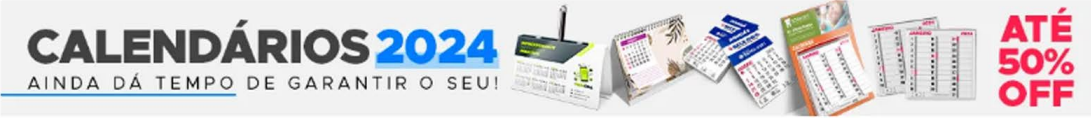
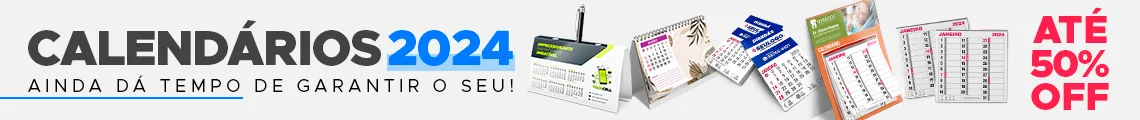
realizando algumas modificações solicitações cliente

diff --git a/index.html b/index.html
@@ -36,7 +36,7 @@
             <p class="header-text-pedido">Confira os impressos com entrega rápida!</p>
             <a href="#" class="header-link-confira">confira aqui ></a>
         </div>
-        <div class="header-info">
+        <div class="header-info container">
             <p class="header-text-grafica">Tudo é gráfica, tudo é GIV Online.</p>
 
             <ul class="header-menu-info">
@@ -50,7 +50,7 @@
                 <li><a href="#"><i class="fa-brands fa-instagram" title="instagram"></i></a></li>
             </ul>
         </div>
-        <div class="header-pesquisa">
+        <div class="header-pesquisa container">
             <div class="header-logo">
                 <a href="#"><img src="img/logo.png" alt="logo"></a>
             </div>
@@ -76,10 +76,10 @@
                 <span class="header-icones"><i class="fa-solid fa-cart-shopping"></i></span>
             </div>
         </div>
-        <div class="header-menu">
-            <hr>
+        <div class="header-menu" id="menu-fixo">
+            <hr id="hr-menu-fixo">
             <nav>
-                <ul>
+                <ul class="menu-fixo-ul">
                     <li>
                         <i class="fa-solid fa-bars"></i>
                         Todos os produtos
@@ -156,7 +156,7 @@
         </div>
     </header>
 
-    <section class="section-carousel">
+    <section class="section-carouse">
         <div id="carouselExampleAutoplaying" class="carousel slide" data-bs-ride="carousel">
             <div class="carousel-indicators">
                 <button type="button" data-bs-target="#carouselExampleIndicators" data-bs-slide-to="0" class="active" aria-current="true" aria-label="Slide 1"></button>
@@ -185,7 +185,7 @@
           </div>
     </section>
 
-    <section class="banner-produtos-categorias">
+    <section class="banner-produtos-categorias container">
         <div class="swiffy-slider slider-item-show5 slider-item-show2-sm slider-nav-arrow slider-nav-dark slider-nav-sm slider-nav-outside slider-nav-visible slider-nav-autoplay slider-indicators-outside">
             <ul class="slider-container">
                 <li class="">
@@ -268,13 +268,13 @@
         </div>
     </section>
 
-    <section class="section-calendario">
+    <section class="container section-calendario">
         <a href="#">
             <img src="img/img-calendarios-2024.png" alt="venda calendarios 2024">
         </a>
     </section>
 
-    <section class="section-produtos-mais-vendidos">
+    <section class="section-produtos-mais-vendidos container">
         <div class="section-titulo">
             <hr>
                 <h1>Os mais vendidos</h1>
@@ -411,7 +411,7 @@
         </div>
     </section>
 
-    <section class="section-ponto-venda">
+    <section class="section-ponto-venda container">
         <div class="section-titulo">
             <hr>
                 <h1>Para o seu ponto de venda</h1>
@@ -548,7 +548,7 @@
         </div>
     </section>
 
-    <section class="section-encante-seus-clientes">
+    <section class="section-encante-seus-clientes container">
         <div class="section-titulo">
             <hr>
                 <h1>Encante seus clientes</h1>
@@ -686,13 +686,14 @@
     </section>
 
     <footer>
-        <div class="footer-info">
+        <div class="footer-info container">
             <p><a href="#">Balcões de Retirada</a></p>
             <p><a href="#">Checagem Imbatível</a></p>
             <p><a href="#">Perguntas Frequentes</a></p>
             <p><a href="#">FuturaIM na Imprensa</a></p>
             <p><a href="#">Tutoriais</a></p>
         </div>
+        <hr class="footer-hr">
         <div class="footer-institucional container">
             <div class="footer-titulo-institucional">
                 <h2>Institucional</h2>
@@ -744,8 +745,23 @@
         </div>
     </footer>
 
-    <script src="js/main.js"></script>
+    <script src="https://cdnjs.cloudflare.com/ajax/libs/jquery/3.7.1/jquery.min.js"></script>
     <script src="https://cdn.jsdelivr.net/npm/bootstrap@5.3.3/dist/js/bootstrap.bundle.min.js" integrity="sha384-YvpcrYf0tY3lHB60NNkmXc5s9fDVZLESaAA55NDzOxhy9GkcIdslK1eN7N6jIeHz" crossorigin="anonymous"></script>
     <script src="https://cdn.jsdelivr.net/npm/swiffy-slider@1.6.0/dist/js/swiffy-slider.min.js" crossorigin="anonymous" defer></script>
+    <script>
+        $(function(){   
+        var nav = $('#menu-fixo');   
+        $(window).scroll(function () { 
+            if ($(this).scrollTop() > 170) { 
+                nav.addClass("menu-fixo");
+                $('body').css('padding-top', 70);
+                $("#hr-menu-fixo").remove();
+            } else { 
+                nav.removeClass("menu-fixo"); 
+                $('body').css('padding-top', 0);
+            } 
+        });  
+        });
+    </script>
 </body>
 </html>

diff --git a/css/index.css b/css/index.css
@@ -9,6 +9,20 @@ a{
     color: #000;
     text-decoration: none;
 }
+.menu-fixo{
+    position: fixed;
+    top: 0;
+    z-index: 99;
+    transition: all 1s;
+    background-color: #fff;
+    width: 100%;
+    padding-top: 5px;
+    padding-bottom: 5px;
+    box-shadow: 0 1px #FAFAFA;
+}
+.menu-fixo-ul{
+    margin-bottom: 0;
+}
 .header-pedido-urgente{
     background-color: #FFDD00;
     display: flex;
@@ -18,23 +32,26 @@ a{
     justify-content: center;
     align-items: baseline;
     font-weight: 900;
-    padding: 15px;
+    padding: 5px;
 }
 .header-text-pedido{
     color: #000;
     margin-right: 40px;
+    margin-bottom: 0;
 }
 .header-text-impressao{
     color: #f00;
     text-transform: uppercase;
     margin-right: 40px;
+    margin-bottom: 0;
 }
 .header-link-confira{
     background-color: #f00;
     color: #fff;
     font-weight: 900;
     border-radius: 45px;
-    padding: 8px;
+    padding: 5px;
+    font-size: 13px;
 }
 
 .header-info{
@@ -72,6 +89,7 @@ a{
     align-items: center;
     justify-content: space-evenly;
     font-size: 15px;
+    margin-bottom: 10px;
 }
 .header-logo > a > img{
     width: 200px;
@@ -105,9 +123,6 @@ a{
 .header-icones{
     font-size: 20px;
 }
-.header-menu{
-    margin-top: 10px;
-}
 .header-menu hr{
     width: 80%;
     margin: 0 auto;
@@ -118,22 +133,28 @@ a{
     flex-wrap: nowrap;
     align-content: center;
     justify-content: center;
-    align-items: center;
+    align-items: baseline;
     font-size: 12px;
+    padding-left: 0;
 }
 .header-menu > nav > ul > li{
     list-style: none;
-    padding: 15px;
+    padding-bottom: 12px;
+    padding-right: 10px;
     font-weight: 700;
 }
 .header-menu > nav > ul > li:first-child{
     font-weight: 900;
     font-size: 14px;
+    padding-left: 0;
 }
 
 .section-calendario {
-    display: flex;
-    justify-content: center;
+    display: block;
+    text-align: center;
+}
+.section-calendario > a > img{
+    width: 94%;
 }
 
 .section-titulo{
@@ -162,9 +183,11 @@ footer{
     display: flex;
     flex-direction: row;
     flex-wrap: nowrap;
-    justify-content: space-evenly;
+    justify-content: space-around;
     align-items: center;
-    border-bottom: 1px solid #cecece;
+}
+.footer-hr{
+    margin: 0;
 }
 .footer-info > p{
     margin-top: 1em;
@@ -243,4 +266,7 @@ footer{
 }
 .section-valor-produto{
     font-weight: 900;
+}
+.footer-comunicacao {
+    margin-top: 3rem;
 }
